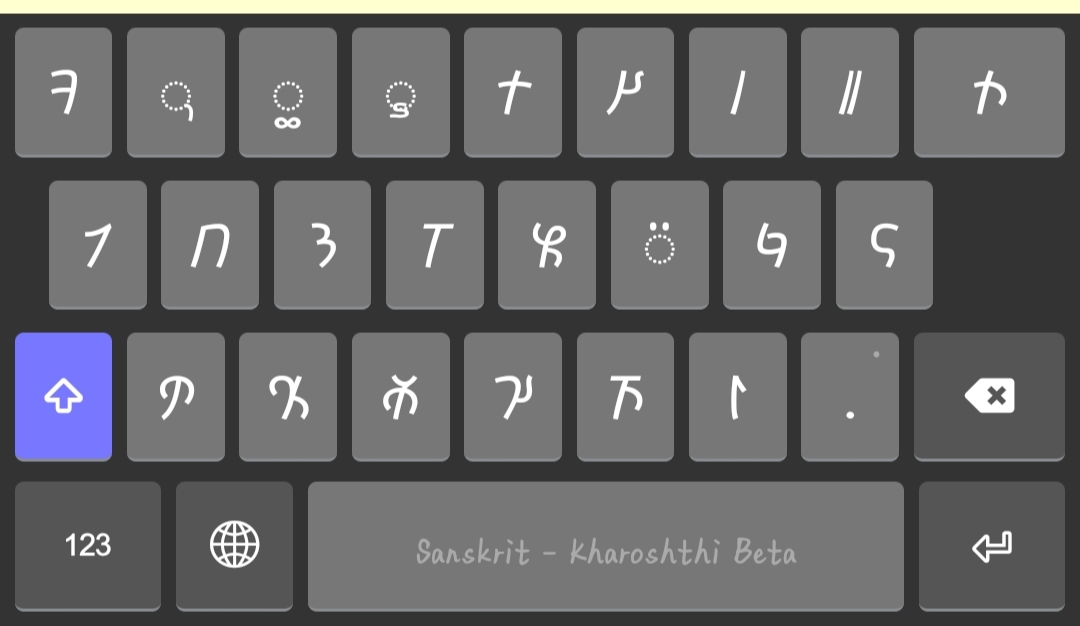
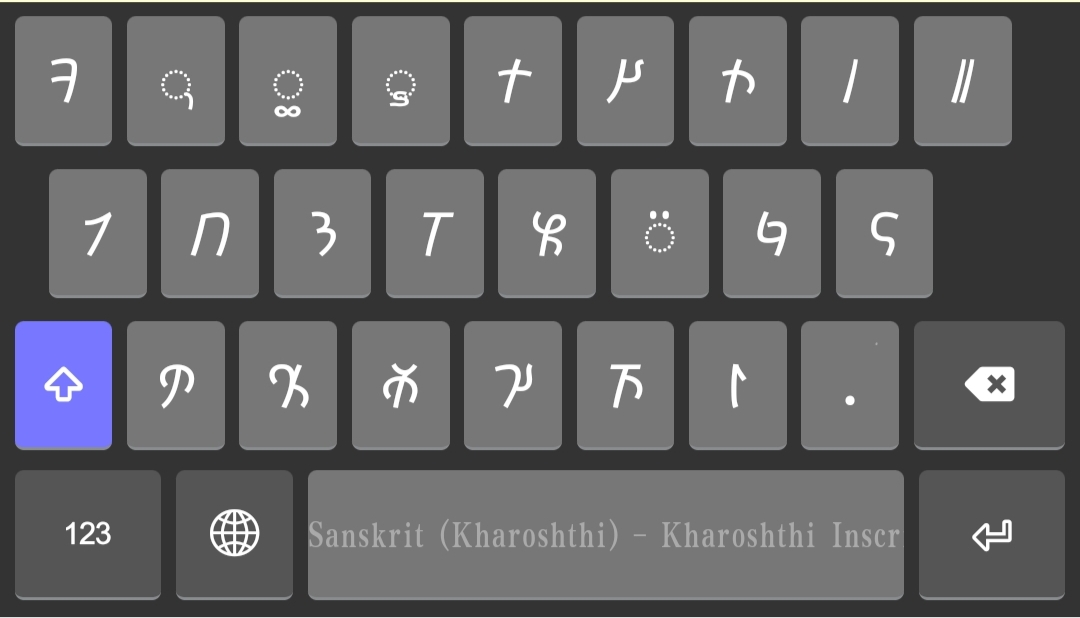
[kharoshthi_inscript] First update

diff --git a/release/k/kharoshthi_inscript/source/welcome.htm b/release/k/kharoshthi_inscript/source/welcome.htm
@@ -6,8 +6,8 @@
   <title>Start Using kharoshthi_inscript</title>
   <style type="text/css">
     p { font: 10pt Tahoma; }
-    h1 { font: bold 16pt Tahoma; color: #4444cc; margin-bottom: 2px }
-    h2 { font: bold 12pt Tahoma; color: #4444cc; }
+    h1 { font: bold 16pt Tahoma; color: #061d75; margin-bottom: 2px }
+    h2 { font: bold 12pt Tahoma; color: #061d75; }
   </style>
 </head>
 <body>
@@ -15,9 +15,9 @@
 <h1>Start Using kharoshthi_inscript</h1>
 
 <p>
-    The Kharoshthi (or kharosthi) script was invented during the 3rd century BC by Gandhari people. It was used to write Sanskrit, Gandhari, Pali and other languages used along the Silk Road. 
+    The Kharoshthi (or Kharosthi) script was invented during the 3rd century BC by Gandhari people. It was used to write Sanskrit, Gandhari, Pali and other languages used along the Silk Road. 
     <br>
-    This keyboard is designed for Sanskrit language, using the Kharoshthi script with an Inscript layout.
+    This keyboard is designed for the Sanskrit language, using the Kharoshthi script with an Inscript layout.
 </p>
 
 <h1>Keyboard Layout</h1>

diff --git a/release/k/kharoshthi_inscript/source/readme.htm b/release/k/kharoshthi_inscript/source/readme.htm
@@ -15,7 +15,7 @@
 <h1>kharosthi_inscript</h1>
 
 <p>
-    This keyboard is designed for Sanskrit language, using the Kharoshthi script with an Inscript layout.
+    This keyboard is designed for the Sanskrit language, using the Kharoshthi script with an Inscript layout.
 </p>
 
 <p>© Joshua Wong</p>

diff --git a/release/k/kharoshthi_inscript/HISTORY.md b/release/k/kharoshthi_inscript/HISTORY.md
@@ -4,3 +4,8 @@ kharoshthi_inscript Change History
 1.0 (2022-08-31)
 ----------------
 * Created by Joshua Wong
+
+1.0.1 (2022-10-14)
+Update:
+1. Fixed the desktop keyboard layout, now it will not produce Latin letters.
+2. Changed the phone keyboard layout.
